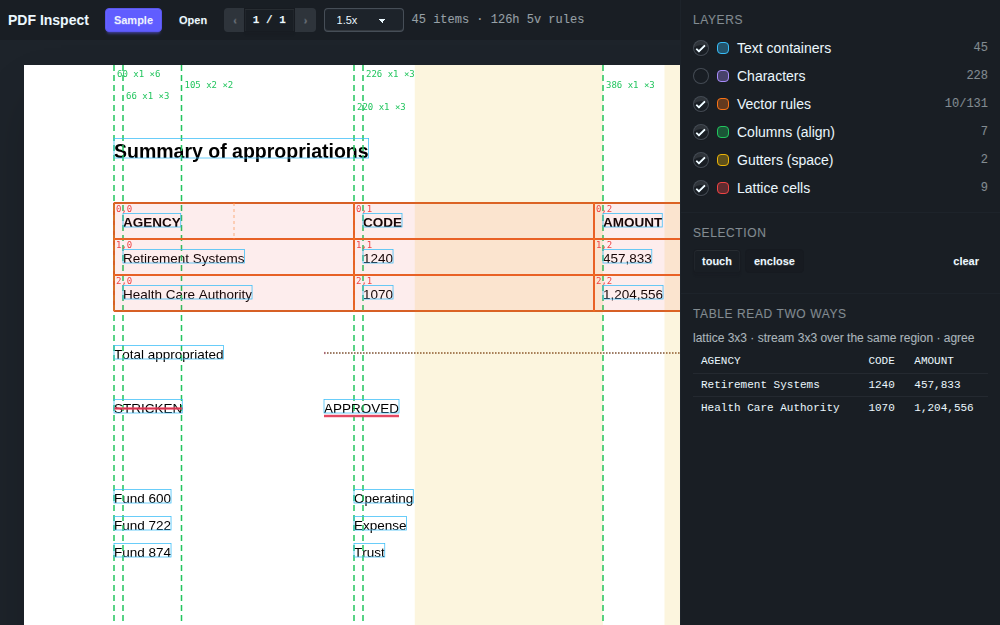
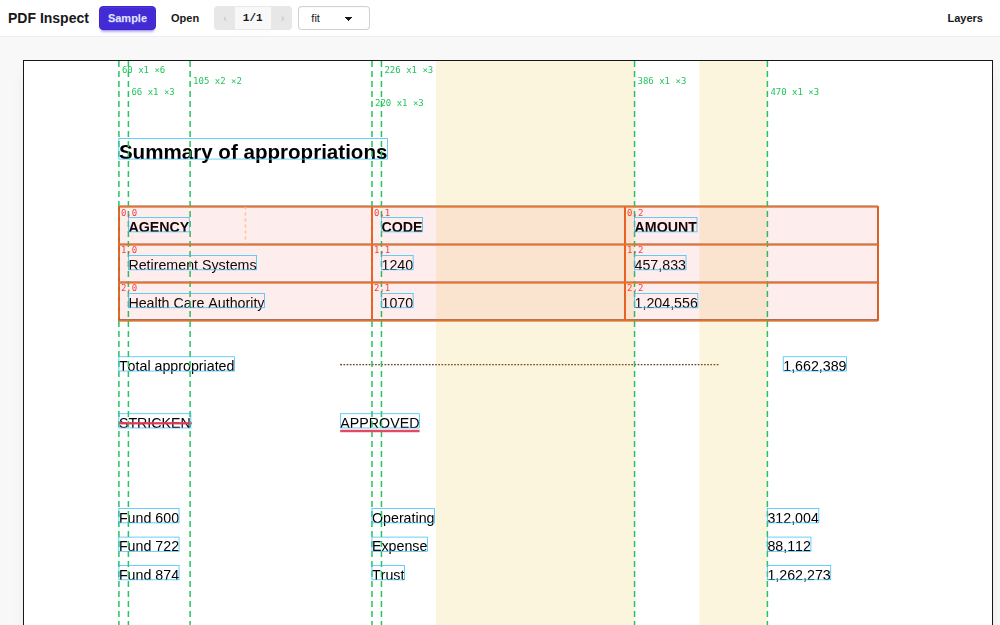
pdf-inspect: responsive drawer, light theme, fit-to-width
Opened on a phone it was unusable, and none of the three headless suites nor
the desktop screenshot could say so. The panel was a fixed 320px column with
no way to dismiss it, so the page got a sliver of a 390px viewport; the
toolbar wrapped and the scale control overprinted the layer list; and the
theme was dark, carried over from the chat-era page without deciding to.

- The panel is a static column from lg up and an off-canvas drawer below it,
  with a backdrop, a toolbar toggle, and tap-outside to close. A selection made
  on a phone opens it, since that is where the result appears and the drag
  otherwise looks like it did nothing.
- The toolbar holds one row at every width. What cannot fit on a phone moves
  into the panel (the status line) rather than wrapping into the layers.
- Scale gains a 'fit' mode, now the default: fit the page to the available
  width, and re-fit on resize and rotation.
- Light theme, with a hairline ring on the sheet so the page keeps its edge
  against a light surround.
- Touch: pointer capture on the stage with preventDefault, so a drag selects
  instead of scrolling the page under the finger.

Claude-Session: https://claude.ai/code/session_01XHc9QSNYZhyxaJaJZzwxmr

diff --git a/pages/pdf-inspect.html b/pages/pdf-inspect.html
@@ -1,5 +1,5 @@
 <!DOCTYPE html>
-<html lang="en" data-theme="dark">
+<html lang="en" data-theme="light">
 <head>
 <meta charset="UTF-8">
 <meta name="viewport" content="width=device-width, initial-scale=1.0">
@@ -37,46 +37,59 @@
   .lbl { font: 9px/1 ui-monospace, monospace; }
 </style>
 </head>
-<body class="bg-base-300 text-base-content">
+<body class="bg-base-200 text-base-content overscroll-none">
 
-<div x-data="pdfInspect()" class="flex h-screen overflow-hidden">
+<div x-data="pdfInspect()" class="flex flex-col h-[100dvh] overflow-hidden">
 
-  <!-- page -->
-  <main class="flex-1 flex flex-col min-w-0">
-    <div class="flex items-center gap-2 p-2 bg-base-200 border-b border-base-100 shrink-0">
-      <span class="font-semibold text-sm pr-2">PDF Inspect</span>
-      <button class="btn btn-xs btn-primary" @click="loadSample()">Sample</button>
-      <label class="btn btn-xs btn-ghost">Open
-        <input type="file" accept=".pdf" class="hidden" @change="loadFile($event.target.files[0])">
-      </label>
-      <div class="join">
-        <button class="btn btn-xs join-item" @click="go(-1)" :disabled="pageNum<=1">&lsaquo;</button>
-        <span class="btn btn-xs join-item no-animation pointer-events-none font-mono"
-              x-text="`${pageNum} / ${numPages||'-'}`"></span>
-        <button class="btn btn-xs join-item" @click="go(1)" :disabled="pageNum>=numPages">&rsaquo;</button>
-      </div>
-      <select class="select select-xs w-20" x-model.number="scale" @change="redraw()">
-        <option value="1">1x</option><option value="1.5">1.5x</option>
-        <option value="2">2x</option><option value="3">3x</option>
-      </select>
-      <span class="text-xs opacity-60 font-mono" x-text="status"></span>
+  <!-- toolbar: one row at every width. Anything that cannot fit on a phone
+       moves into the panel rather than wrapping into the layer list. -->
+  <div class="flex items-center gap-1.5 px-2 py-1.5 bg-base-100 border-b border-base-300 shrink-0">
+    <span class="font-semibold text-sm pr-1 hidden sm:inline whitespace-nowrap">PDF Inspect</span>
+    <button class="btn btn-xs btn-primary" @click="loadSample()">Sample</button>
+    <label class="btn btn-xs btn-ghost">Open
+      <input type="file" accept=".pdf" class="hidden" @change="loadFile($event.target.files[0])">
+    </label>
+    <div class="join">
+      <button class="btn btn-xs join-item" @click="go(-1)" :disabled="pageNum<=1">&lsaquo;</button>
+      <span class="btn btn-xs join-item no-animation pointer-events-none font-mono whitespace-nowrap"
+            x-text="`${pageNum}/${numPages||'-'}`"></span>
+      <button class="btn btn-xs join-item" @click="go(1)" :disabled="pageNum>=numPages">&rsaquo;</button>
     </div>
+    <select class="select select-xs w-[4.5rem] shrink-0" x-model="scaleMode" @change="redraw()">
+      <option value="fit">fit</option>
+      <option value="1">1x</option><option value="1.5">1.5x</option>
+      <option value="2">2x</option><option value="3">3x</option>
+    </select>
+    <span class="text-xs opacity-60 font-mono truncate hidden lg:inline" x-text="status"></span>
+    <button class="btn btn-xs btn-ghost ml-auto lg:hidden gap-1" @click="panel = !panel">
+      <span x-text="panel ? 'Close' : 'Layers'"></span>
+    </button>
+  </div>
 
-    <div class="flex-1 overflow-auto p-6 bg-base-100" id="scroll">
-      <div class="relative inline-block shadow-2xl select-none" id="stage"
+  <div class="flex-1 flex min-h-0 relative">
+    <!-- page -->
+    <main class="flex-1 overflow-auto p-3 sm:p-6 bg-base-200 min-w-0" id="scroll">
+      <div class="relative inline-block shadow-lg ring-1 ring-base-300 select-none touch-none" id="stage"
            @pointerdown="dragStart($event)" @pointermove="dragMove($event)"
-           @pointerup="dragEnd($event)" @pointerleave="dragEnd($event)">
+           @pointerup="dragEnd($event)" @pointercancel="dragEnd($event)">
         <canvas id="page" class="block"></canvas>
         <svg class="layer" id="ov" :width="W" :height="H"></svg>
-        <div x-show="drag" class="absolute border-2 border-warning bg-warning/10 pointer-events-none"
+        <div x-show="drag" class="absolute border-2 border-warning bg-warning/20 pointer-events-none"
              :style="dragStyle"></div>
       </div>
-    </div>
-  </main>
+    </main>
 
-  <!-- controls -->
-  <aside class="w-80 shrink-0 flex flex-col bg-base-200 border-l border-base-100 overflow-y-auto">
+    <!-- backdrop, phone only -->
+    <div x-show="panel" x-transition.opacity class="absolute inset-0 bg-black/30 z-30 lg:hidden"
+         @click="panel = false"></div>
+
+    <!-- controls: a static column from lg up, an off-canvas drawer below it -->
+    <aside class="absolute inset-y-0 right-0 z-40 w-[85vw] max-w-xs translate-x-full transition-transform duration-200
+                  lg:static lg:translate-x-0 lg:w-80 lg:max-w-none
+                  shrink-0 flex flex-col bg-base-100 border-l border-base-300 overflow-y-auto"
+           :class="panel && '!translate-x-0 shadow-2xl'">
     <div class="p-3 space-y-1">
+      <div class="text-xs font-mono opacity-60 mb-2 lg:hidden" x-text="status"></div>
       <div class="text-xs uppercase tracking-wider opacity-50 mb-2">Layers</div>
       <template x-for="l in layerList" :key="l.key">
         <label class="flex items-center gap-2 cursor-pointer py-0.5">
@@ -151,13 +164,20 @@ const LAYERS = [
 const S = { doc: null, v: null, items: [], projected: [] };
 
 document.addEventListener('alpine:init', () => Alpine.data('pdfInspect', () => ({
-  pageNum: 1, numPages: 0, scale: 1.5,
+  pageNum: 1, numPages: 0, scaleMode: 'fit', scale: 1.5, panel: false,
   W: 0, H: 0, status: 'no document', layerList: LAYERS,
   layers: { items: true, glyphs: false, rules: true, columns: true, gutters: true, cells: true },
   counts: {}, sel: [], selMode: 'contain', selInfo: '', drag: null, dragStyle: '',
   matrix: [], tableInfo: '',
 
-  async init() { await this.loadSample(); },
+  async init() {
+    let t;
+    addEventListener('resize', () => {
+      if (this.scaleMode !== 'fit') return;
+      clearTimeout(t); t = setTimeout(() => this.redraw(), 150);
+    });
+    await this.loadSample();
+  },
 
   // Built here rather than committed, so the fixture is readable as code and
   // the page has something to show on first load with no file and no network.
@@ -233,6 +253,15 @@ document.addEventListener('alpine:init', () => Alpine.data('pdfInspect', () => (
   async render() {
     const n = this.pageNum;
     const page = S.doc.pages[n - 1];
+    // 'fit' is the default because the first thing a phone showed was a page
+    // squeezed into a sliver beside a panel that could not be closed.
+    if (this.scaleMode === 'fit') {
+      const host = document.getElementById('scroll');
+      const avail = Math.max(240, host.clientWidth - 32);
+      this.scale = Math.min(3, Math.max(0.4, avail / page.getViewport({ scale: 1 }).width));
+    } else {
+      this.scale = Number(this.scaleMode);
+    }
     const vp = page.getViewport({ scale: this.scale });
     this.W = Math.ceil(vp.width); this.H = Math.ceil(vp.height);
 
@@ -368,6 +397,7 @@ document.addEventListener('alpine:init', () => Alpine.data('pdfInspect', () => (
   // Drag selection. Screen coordinates go straight to the kit; the only thing
   // this page computes is the rectangle the pointer described.
   dragStart(e) {
+    e.preventDefault();
     const r = e.currentTarget.getBoundingClientRect();
     this.drag = { x0: e.clientX - r.left, y0: e.clientY - r.top, x1: e.clientX - r.left, y1: e.clientY - r.top };
     e.currentTarget.setPointerCapture?.(e.pointerId);
@@ -394,6 +424,7 @@ document.addEventListener('alpine:init', () => Alpine.data('pdfInspect', () => (
     const subCols = sub.length ? window.pdf.stream.columns(sub).length : 0;
     this.selInfo = `${picked.length} items · region ` +
       `${region.x1},${region.y1} → ${region.x2},${region.y2} · ${subCols} columns`;
+    if (picked.length && matchMedia('(max-width: 1023px)').matches) this.panel = true;
   },
   clearSel() { this.sel = []; this.selInfo = ''; },
 })));
